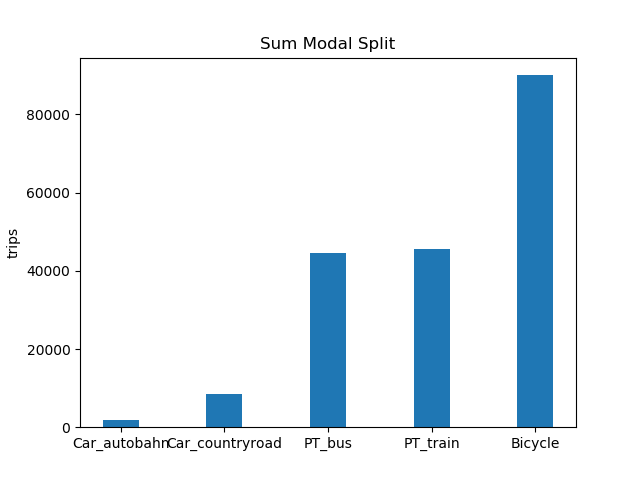
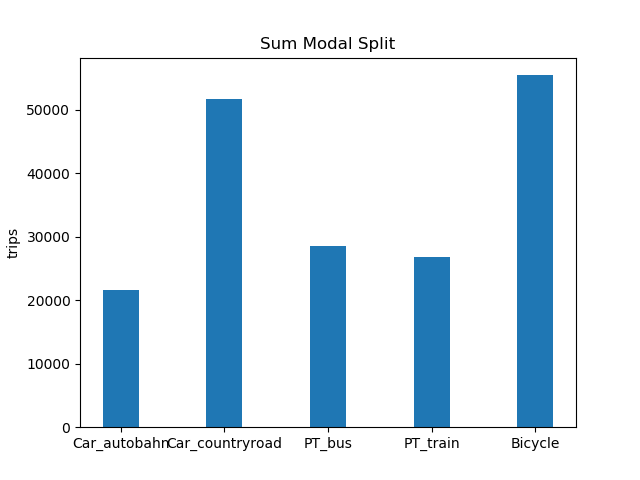
LOS Penalty added

diff --git a/Population/PopulationGroup.py b/Population/PopulationGroup.py
@@ -45,7 +45,11 @@ class PopulationGroup():
         return str(self._attributes)
 
     def calcResistance(self, duration, cost, los, travelTimeBudget, costBudget, expectationLos, tripsPerDay, mode, jsonParameter):
-        resistancePenaltyforNonCarModes=0.0 
+        resistancePenaltyforNonCarModes=0.0
+        losPenaltyforNonCarModes = 0.0
+        losOffsetforNonCarModes = 0.0
+        timeBudgetFactor = jsonParameter["timeBudgetFactor"]
+
 
         #skip if mode is car and a car is not available 
         if mode == 'car' and self._attributes['carAvailable']!='available':
@@ -53,30 +57,32 @@ class PopulationGroup():
 
         #penalty for other modes if car is available and mode is not car
         if mode != 'car' and self._attributes['carAvailable'] == 'available':
-            resistancePenaltyforNonCarModes = jsonParameter['resistancePenaltyIfCarAvailable']      
+            resistancePenaltyforNonCarModes = jsonParameter['resistancePenaltyIfCarAvailable'] 
+            losPenaltyforNonCarModes = jsonParameter['losPenaltyIfCarAviable']
+            losOffsetforNonCarModes =  jsonParameter['losOffsetIfCarAviable']
 
         if mode == 'car':
             travelTimeBudgetCorrection = 1.0
             costBudgetCorrection = 1.0
         elif mode == 'publicTransport':
-            travelTimeBudgetCorrection = jsonParameter['timeBudgetCorrectionPT']
-            costBudgetCorrection = jsonParameter['costBudgetCorrectionPT']
-        else:   
             travelTimeBudgetCorrection = 1.0
+            costBudgetCorrection = 1.0
+        else:   
+            travelTimeBudgetCorrection = jsonParameter["timeBudgetCorrectionWalkBicycle"]
             costBudgetCorrection = 1.0
         
         #calc trip budgets
-        travelTimeBudgetPerTrip = travelTimeBudget/tripsPerDay
+        travelTimeBudgetPerTrip = (travelTimeBudget/tripsPerDay)*timeBudgetFactor
         costBudgetPerTrip = costBudget/tripsPerDay
 
         #calc duration resistance
-        resistanceDuration= math.exp((duration/(travelTimeBudgetPerTrip*travelTimeBudgetCorrection))-1)
+        resistanceDuration= math.exp((duration/(travelTimeBudgetPerTrip*travelTimeBudgetCorrection)))
         #calc cost resistance
-        resistanceCost = math.exp((cost/(costBudgetPerTrip*costBudgetCorrection))-1)
+        resistanceCost = math.exp((cost/(costBudgetPerTrip*costBudgetCorrection)))
         # calc LoS resistance
         # los is calculatet for every path in trafficCell
         # los is normed to the occupancy (occ 0.8 is approximatly los 1 ) 
-        resistanceLos = los 
+        resistanceLos = los + los*losPenaltyforNonCarModes +losOffsetforNonCarModes 
 
         resistanceSum = self.k['cost']*resistanceCost + self.k['duration']*resistanceDuration + self.k['los']*resistanceLos
         resistanceSum = resistanceSum + resistanceSum*resistancePenaltyforNonCarModes

diff --git a/visualGAMS.py b/visualGAMS.py
@@ -171,6 +171,50 @@ def plotModalSplitOverAllCellsStacked(trafficCellDict):
 
     fig.savefig(path)
 
+def plotModalSplitWithoutGrazStacked(trafficCellDict):
+    path='Pic/ModalSplitCellsWithoutGraz.png'
+    car_sum_trips=0
+    pt_sum_trips=0
+    bicycle_sum_trips = 0
+    walk_sum_trips = 0
+    
+    for tC in trafficCellDict.values():
+        if tC.cellID == "60101":
+            continue
+        for modeTrips in tC.purposeDestinationMode['work'].values():
+            for mode, trips in modeTrips.items():
+                if mode == 'car':
+                    car_sum_trips += trips
+                elif mode == 'publicTransport':
+                    pt_sum_trips += trips
+                elif mode == 'bicycle':
+                    bicycle_sum_trips += trips
+                elif mode == 'walk':
+                    walk_sum_trips += trips
+                else:
+                    print('Wrong Mode for Plot sum - plotModalSplitOverAllCells')
+    
+    
+    sumtrips=car_sum_trips + pt_sum_trips +bicycle_sum_trips +walk_sum_trips
+    car_sum_trips =(car_sum_trips/sumtrips) * 100
+    pt_sum_trips = (pt_sum_trips/sumtrips) * 100
+    bicycle_sum_trips = (bicycle_sum_trips /sumtrips) * 100
+    walk_sum_trips = (walk_sum_trips/sumtrips)*100
+    index = np.arange(1)
+    bar_width = 0.35
+
+    fig = plt.figure()
+    p1 = plt.bar(index, car_sum_trips, bar_width)
+    p2 = plt.bar(index, pt_sum_trips, bar_width, bottom = car_sum_trips)
+    p3 = plt.bar(index, bicycle_sum_trips, bar_width,  bottom = (car_sum_trips+ pt_sum_trips))
+    p4 = plt.bar(index, walk_sum_trips, bar_width,  bottom = (car_sum_trips+ pt_sum_trips+ bicycle_sum_trips))
+
+    plt.ylabel('Percent')
+    plt.title("Modal Split stacked without Graz")
+    plt.legend((p1[0], p2[0], p3[0], p4[0]), ('Car', 'PT', 'Bicycle', 'Walk'))
+
+    fig.savefig(path)
+
 
 def plotModalSplitwithinCells(trafficCellDict):
     path='Pic/ModalSplitwithinCells.png'

diff --git a/Infrastructure/TrafficCell.py b/Infrastructure/TrafficCell.py
@@ -67,10 +67,10 @@ class TrafficCell():
         speedInZonePT = jsonParameter['speedInZonePT']
         speedInZoneBicycle = jsonParameter['speedInZoneBicycle']
         speedInZoneWalk = jsonParameter['speedInZoneWalk']
-        losInZoneCar = jsonParameter["losInZoneCar"],
-        losInZonePT = jsonParameter["losInZonePT"],
-        losInZoneBicycle = jsonParameter["losInZoneBicycle"],
-        losInZoneWalk = jsonParameter["losInZoneWalk"],
+        losInZoneCar = jsonParameter["losInZoneCar"]
+        losInZonePT = jsonParameter["losInZonePT"]
+        losInZoneBicycle = jsonParameter["losInZoneBicycle"]
+        losInZoneWalk = jsonParameter["losInZoneWalk"]
 
         for destination, modes in self.pathConnectionList.items():
             modeParams = defaultdict()

diff --git a/main.py b/main.py
@@ -22,7 +22,7 @@ from TrafficEvaluation import runSimulation
 from visualGAMS import (plotConnectionComparison, plotModalSplitBetweenCells,
                         plotModalSplitConnections, plotModalSplitOverAllCells,
                         plotModalSplitOverAllCellsStacked,
-                        plotModalSplitwithinCells)
+                        plotModalSplitwithinCells, plotModalSplitWithoutGrazStacked)
 
 # --- load Config-File
 jsonSimConfig = loadSimConfig()
@@ -103,6 +103,7 @@ plotModalSplitOverAllCells(trafficCellDict)
 plotModalSplitwithinCells(trafficCellDict)
 plotModalSplitOverAllCellsStacked(trafficCellDict)
 plotModalSplitBetweenCells(trafficCellDict)
+plotModalSplitWithoutGrazStacked(trafficCellDict)
 
 
 ###########
